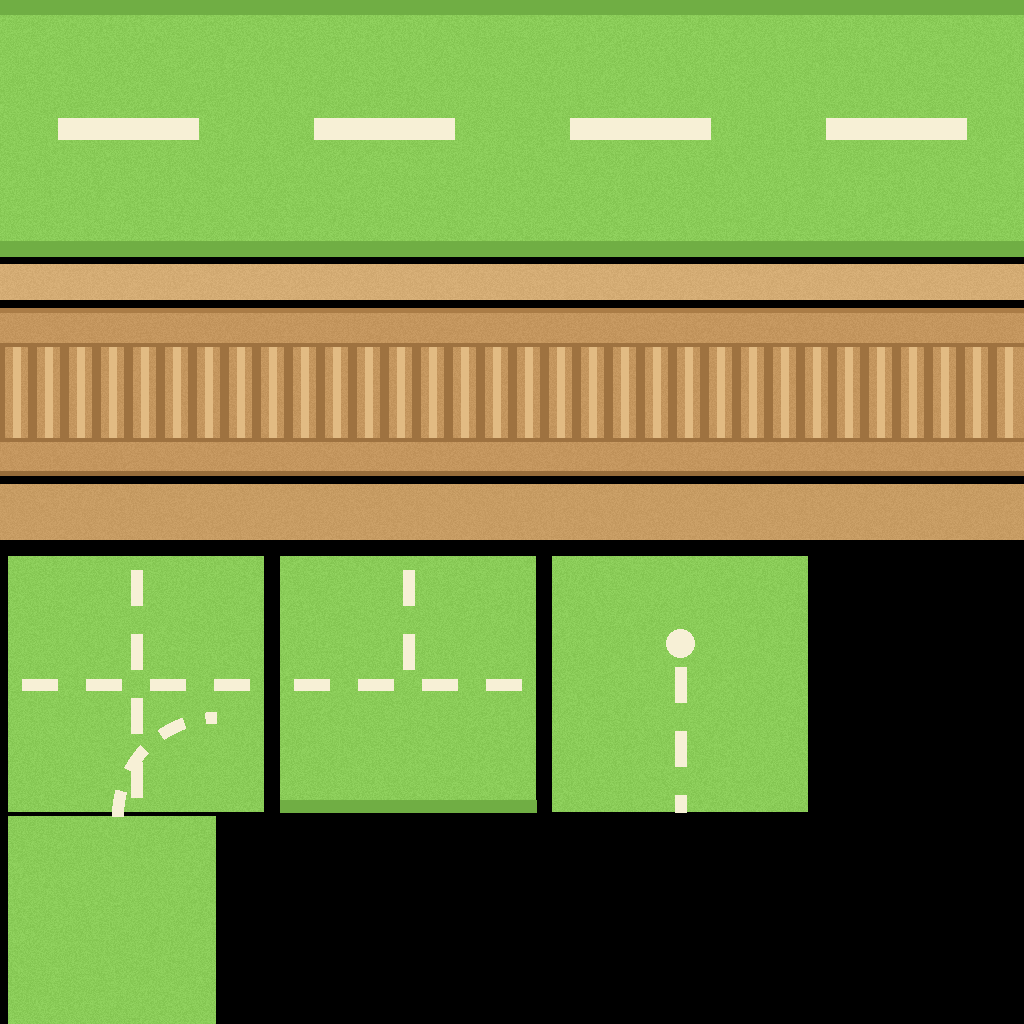
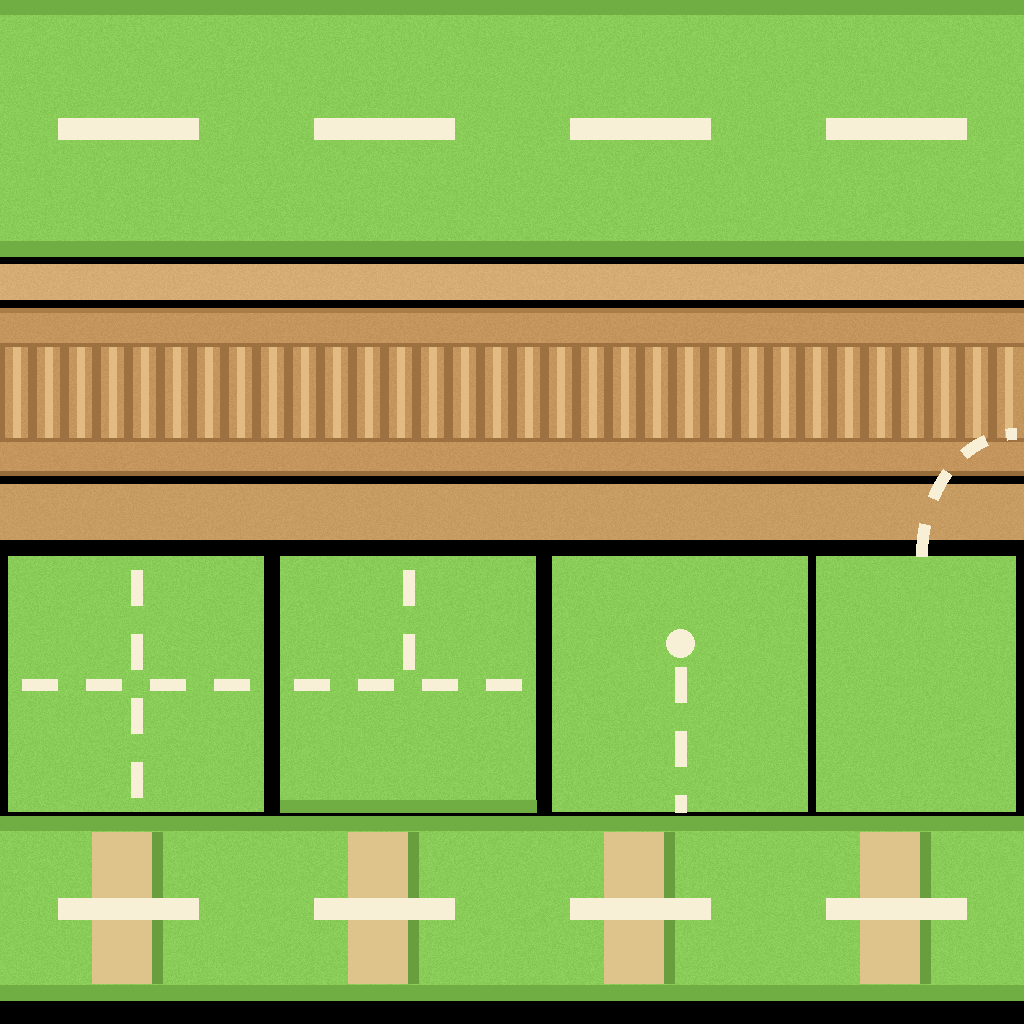
hozobb

diff --git a/project/engine/rail/SplineRail.cpp b/project/engine/rail/SplineRail.cpp
@@ -111,6 +111,111 @@ void SplineRail::BuildDistanceTable(){
 
         prevPos = currentPos;
     }
+
+    // 距離テーブルが更新されたらフレームテーブルも作り直す（道システムの土台）
+    BuildFrameCache();
+}
+
+namespace {
+    // FrameCache 用のベクトル補助（このファイル内だけで使う）
+    inline Vector3 FC_Cross(const Vector3& a, const Vector3& b){
+        return { a.y * b.z - a.z * b.y, a.z * b.x - a.x * b.z, a.x * b.y - a.y * b.x };
+    }
+    inline float FC_Dot(const Vector3& a, const Vector3& b){
+        return a.x * b.x + a.y * b.y + a.z * b.z;
+    }
+    inline Vector3 FC_Normalize(const Vector3& v){
+        float l = std::sqrt(v.x * v.x + v.y * v.y + v.z * v.z);
+        if ( l < 1e-6f ) return { 1.0f, 0.0f, 0.0f };
+        return { v.x / l, v.y / l, v.z / l };
+    }
+    inline Vector3 FC_Lerp(const Vector3& a, const Vector3& b, float t){
+        return { a.x + ( b.x - a.x ) * t, a.y + ( b.y - a.y ) * t, a.z + ( b.z - a.z ) * t };
+    }
+}
+
+// FrameCache の構築：0.25m刻みで RMF（平行移動フレーム）を運ぶ。
+//   right(0) = normalize(cross(worldUp, T))
+//   right(i) = 前の right を現在の接線に直交化（ねじれ最小）
+//   接線が水平寄り(|T.y|<0.7)の間は「理想のright（水平）」へ15%/stepだけ戻す（ロール回復）
+void SplineRail::BuildFrameCache(){
+    frameCache_.clear();
+    if ( nodes.size() < 2 || totalLength_ <= 0.0f ) return;
+
+    const Vector3 worldUp = { 0.0f, 1.0f, 0.0f };
+    const int count = static_cast< int >( totalLength_ / kFrameStep ) + 2; // 終端を必ず含む
+    frameCache_.reserve(count);
+
+    Vector3 prevRight { 1.0f, 0.0f, 0.0f };
+    for ( int i = 0; i < count; ++i ) {
+        float d = ( std::min )( i * kFrameStep, totalLength_ );
+
+        RailFrame f;
+        f.position = GetPositionByDistance(d);
+        f.tangent  = FC_Normalize(GetTangentByDistance(d));
+        const Vector3& T = f.tangent;
+
+        Vector3 r;
+        if ( i == 0 ) {
+            r = FC_Cross(worldUp, T);
+            if ( FC_Dot(r, r) < 1e-8f ) { r = FC_Cross({ 0.0f, 0.0f, 1.0f }, T); } // 真上向きの保険
+            r = FC_Normalize(r);
+        } else {
+            // RMF: 前フレームの right を現在の接線に直交化して運ぶ
+            r = { prevRight.x - T.x * FC_Dot(prevRight, T),
+                  prevRight.y - T.y * FC_Dot(prevRight, T),
+                  prevRight.z - T.z * FC_Dot(prevRight, T) };
+            if ( FC_Dot(r, r) < 1e-8f ) {
+                r = FC_Cross(worldUp, T);
+                if ( FC_Dot(r, r) < 1e-8f ) { r = FC_Cross({ 0.0f, 0.0f, 1.0f }, T); }
+            }
+            r = FC_Normalize(r);
+
+            // ロール回復：接線が水平寄りなら理想の right（水平）へ少しずつ戻す
+            if ( std::abs(T.y) < 0.7f ) {
+                Vector3 ideal = FC_Cross(worldUp, T);
+                if ( FC_Dot(ideal, ideal) > 1e-8f ) {
+                    ideal = FC_Normalize(ideal);
+                    if ( FC_Dot(ideal, r) < 0.0f ) { ideal = { -ideal.x, -ideal.y, -ideal.z }; } // 反転側へ回復しない
+                    r = FC_Normalize(FC_Lerp(r, ideal, 0.15f));
+                }
+            }
+        }
+        prevRight = r;
+
+        f.right = r;
+        f.up = FC_Normalize(FC_Cross(T, r));
+        frameCache_.push_back(f);
+    }
+}
+
+// 距離 d のフレームを取得（テーブルの線形補間＋再正規化）
+SplineRail::RailFrame SplineRail::GetFrameAtDistance(float distance) const{
+    if ( frameCache_.size() < 2 ) {
+        // フォールバック：キャッシュ未構築時は都度計算（RMFなしの簡易フレーム）
+        RailFrame f;
+        f.position = GetPositionByDistance(distance);
+        f.tangent  = FC_Normalize(GetTangentByDistance(distance));
+        Vector3 r = FC_Cross({ 0.0f, 1.0f, 0.0f }, f.tangent);
+        if ( FC_Dot(r, r) < 1e-8f ) { r = FC_Cross({ 0.0f, 0.0f, 1.0f }, f.tangent); }
+        f.right = FC_Normalize(r);
+        f.up = FC_Normalize(FC_Cross(f.tangent, f.right));
+        return f;
+    }
+
+    float d = std::clamp(distance, 0.0f, totalLength_);
+    float fi = d / kFrameStep;
+    int i0 = ( std::min )( static_cast< int >( fi ), static_cast< int >( frameCache_.size() ) - 2 );
+    float t = std::clamp(fi - i0, 0.0f, 1.0f);
+
+    const RailFrame& a = frameCache_[i0];
+    const RailFrame& b = frameCache_[i0 + 1];
+    RailFrame f;
+    f.position = FC_Lerp(a.position, b.position, t);
+    f.tangent  = FC_Normalize(FC_Lerp(a.tangent, b.tangent, t));
+    f.right    = FC_Normalize(FC_Lerp(a.right, b.right, t));
+    f.up       = FC_Normalize(FC_Cross(f.tangent, f.right)); // 補間後も直交を保証
+    return f;
 }
 
 // ② 進んだ距離から「t」を求める（これが等速移動の要！）

diff --git a/project/engine/rail/SplineRail.h b/project/engine/rail/SplineRail.h
@@ -73,6 +73,30 @@ public:
     // 指定ワールド座標に最も近いレール上の距離 s を返す（スナップ／分岐検出用）
     float GetClosestDistance(const Vector3& worldPos) const;
 
+    // ============================================================
+    // 【道システム】RailFrame / FrameCache（設計書 §3）
+    //   道メッシュ・プレイヤー・敵・カメラが「同じ位置と向き」を共有するための
+    //   フレーム（位置＋right/up/tangent）。0.25m刻みで事前計算してテーブル化し、
+    //   実行時は線形補間で引くだけ（毎回のスプライン計算より約3.5倍速い）。
+    //   向きは RMF（平行移動フレーム）＋ロール回復で、急カーブでもねじれない。
+    //   ※位置は animOffset を含まない基準位置（動くレールは利用側で offset を足す）
+    // ============================================================
+    struct RailFrame {
+        Vector3 position { 0.0f, 0.0f, 0.0f };
+        Vector3 right    { 1.0f, 0.0f, 0.0f };
+        Vector3 up       { 0.0f, 1.0f, 0.0f };
+        Vector3 tangent  { 0.0f, 0.0f, 1.0f };
+    };
+
+    // 距離 d のフレームを返す（テーブルを線形補間。未構築なら都度計算にフォールバック）
+    RailFrame GetFrameAtDistance(float distance) const;
+
+    // FrameCache の構築（BuildDistanceTable の最後で自動的に呼ばれる）
+    void BuildFrameCache();
+
+    std::vector<RailFrame> frameCache_;
+    static constexpr float kFrameStep = 0.25f; // テーブルの刻み(m)
+
     // ⑤ 終端の接続情報（インデックスで管理・距離チェック不要）
     int  frontConnIndex = -1;    // front端の接続先レール番号 (-1=なし)
     bool frontConnToFront = true;  // true=接続先のfront, false=back
